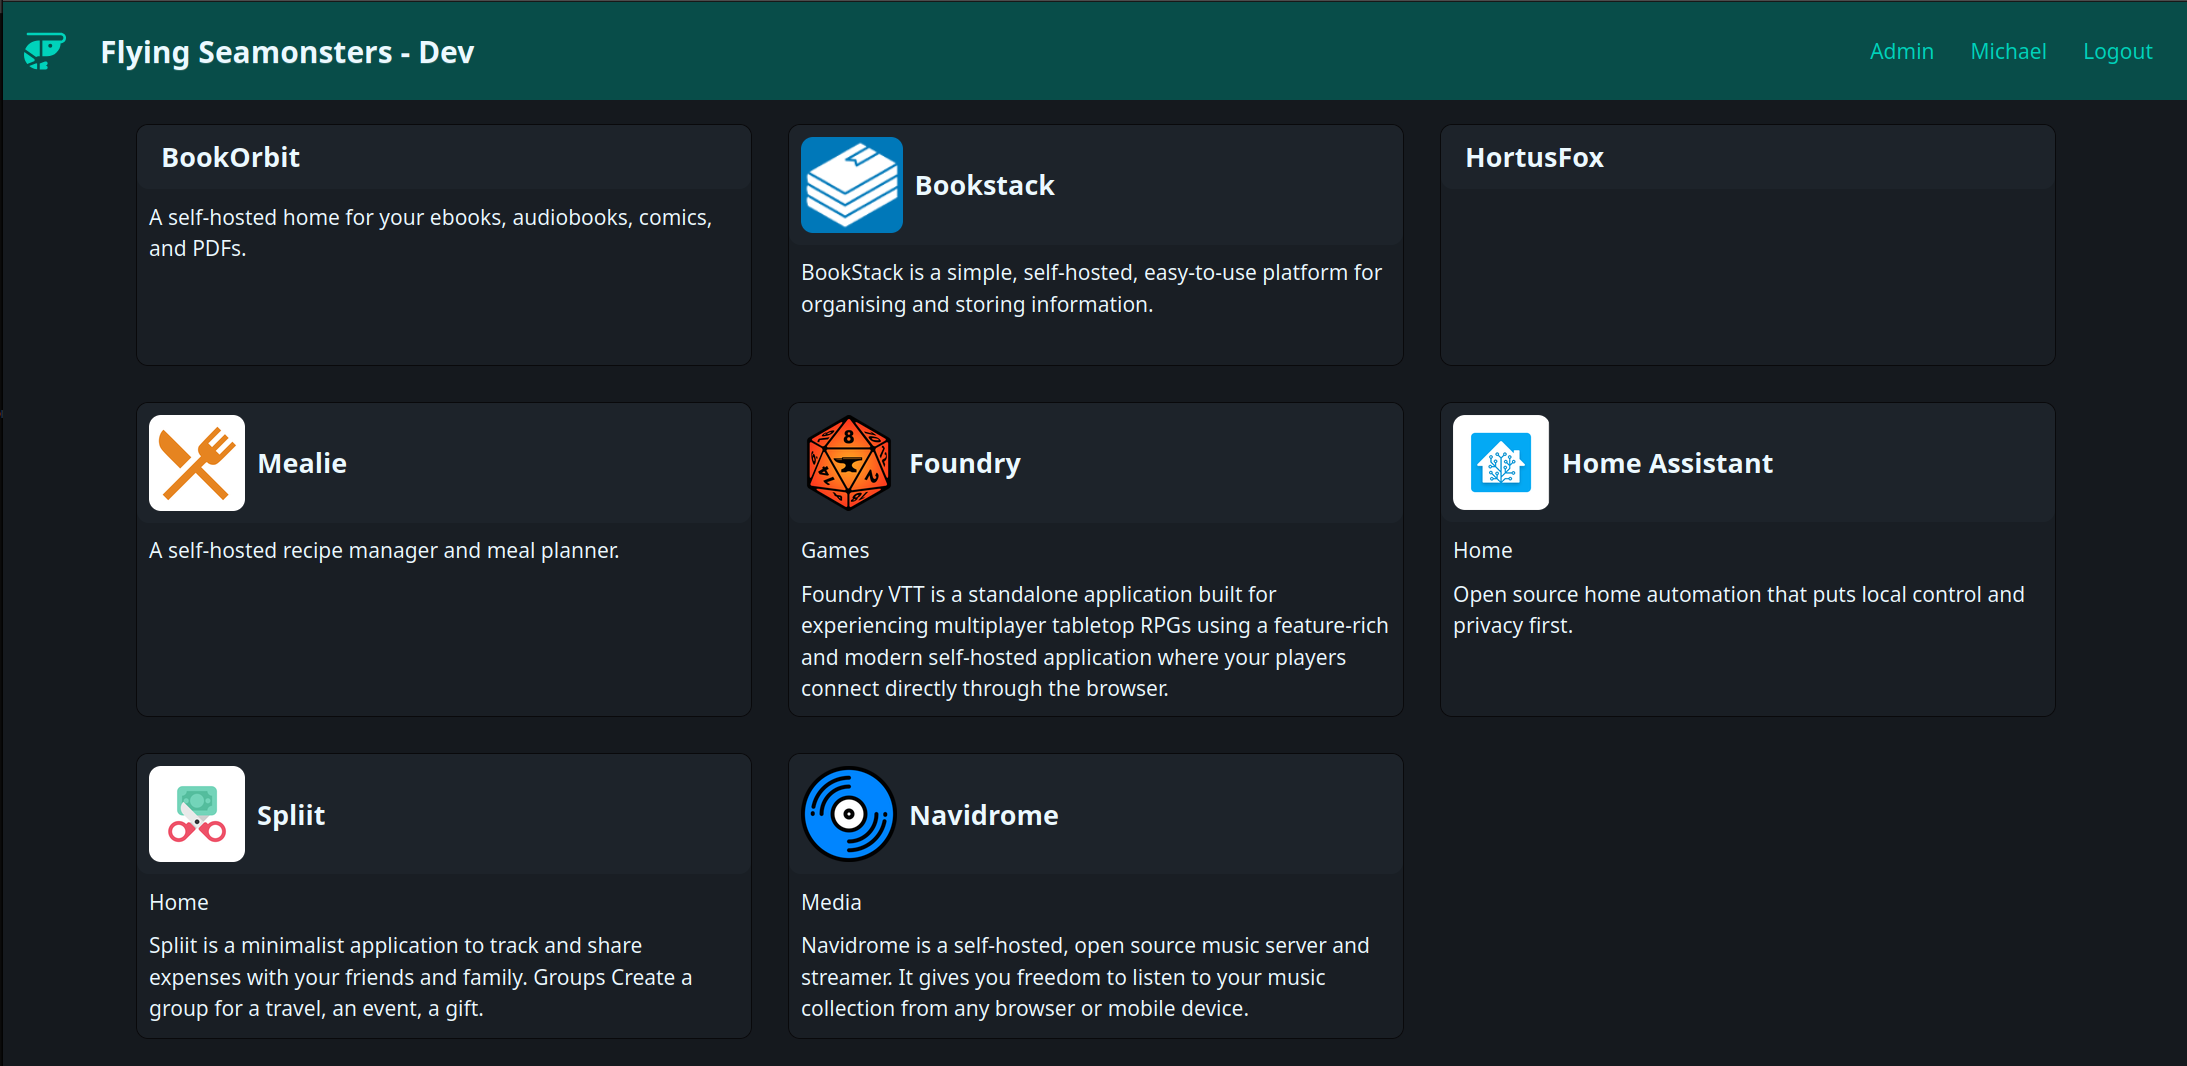
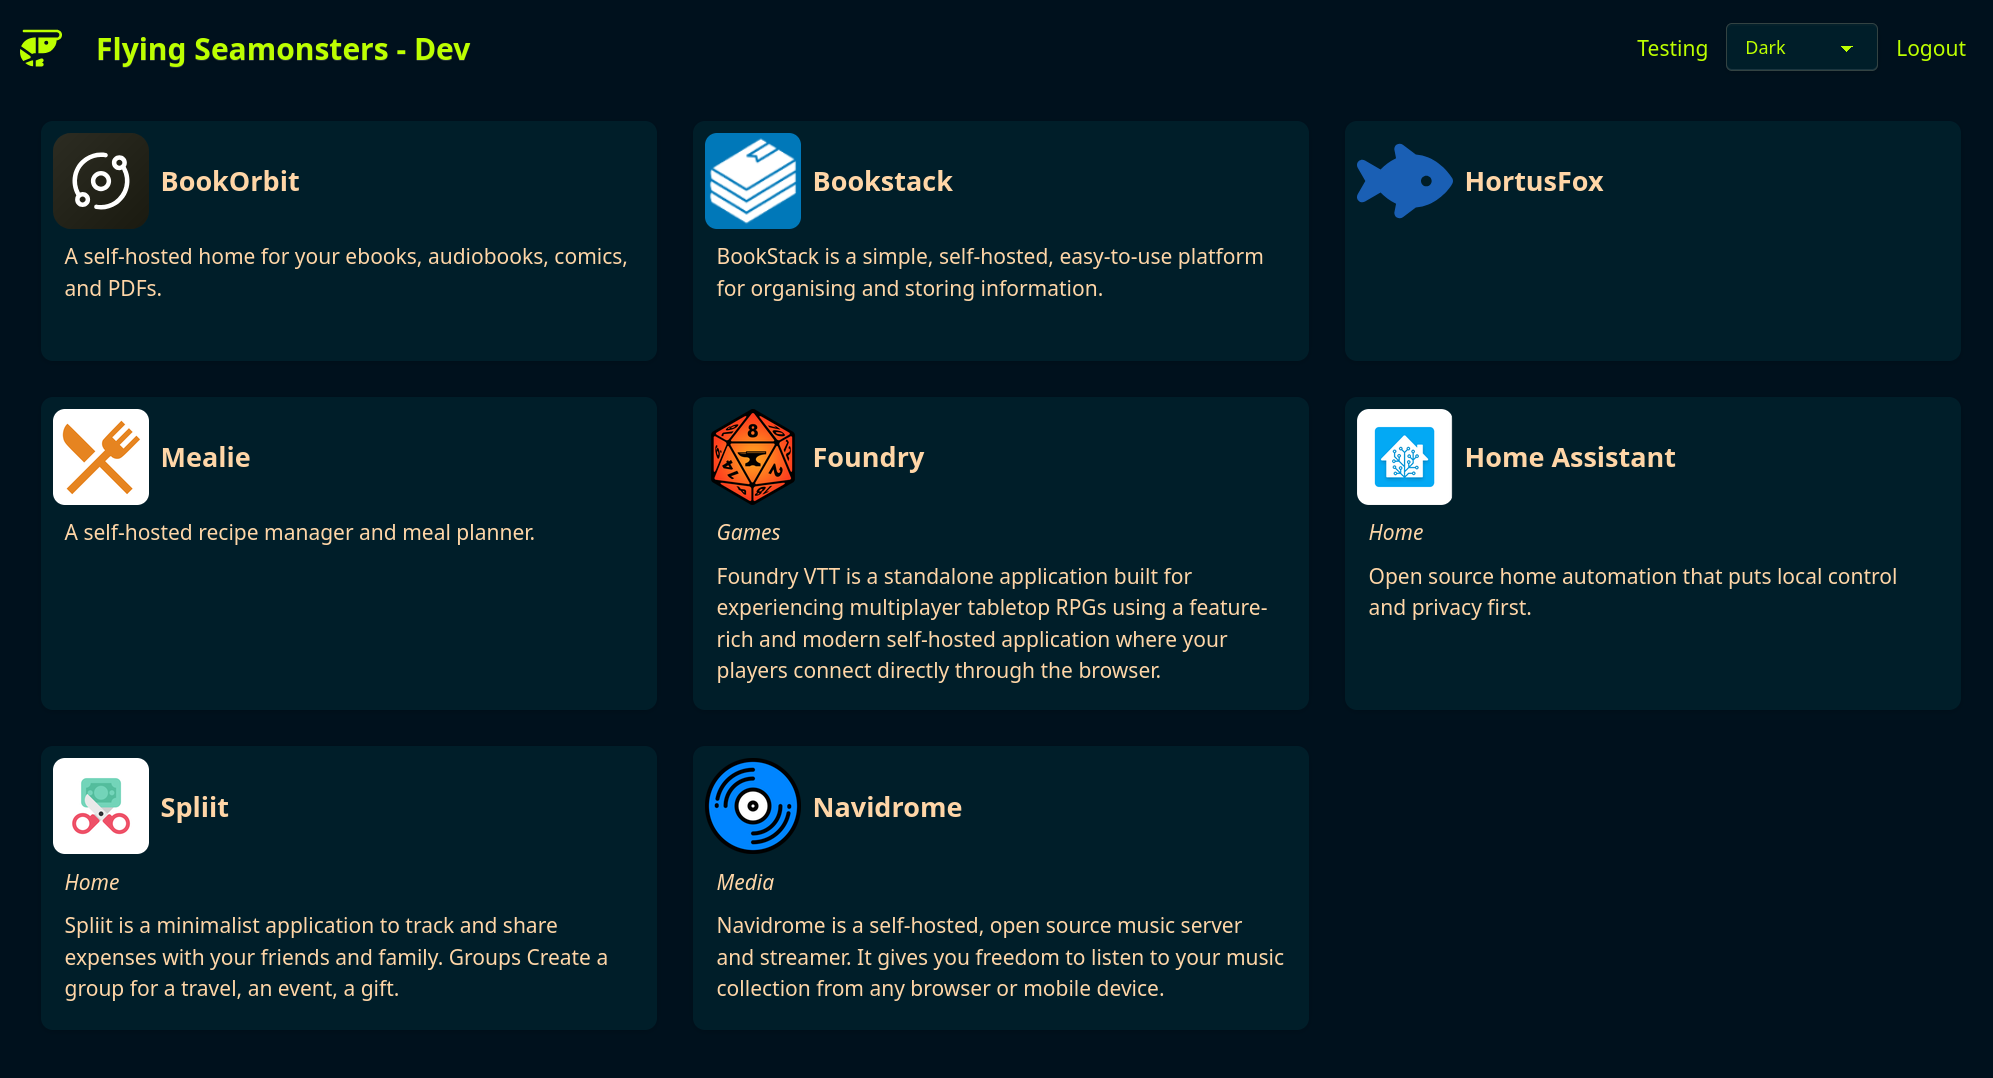
Prep for v0.10

diff --git a/CHANGELOG.md b/CHANGELOG.md
@@ -5,15 +5,19 @@ What's new in Synalpheus?
 The format is based on [Keep a Changelog](https://keepachangelog.com/en/1.0.0/),
 and this project adheres to [Semantic Versioning](https://semver.org/spec/v2.0.0.html). (Or tries to anyway.)
 
-## [0.9.0] - 2026-9-01
+## [0.10.0] - 2026-09-03
+- New theming, including a theme selector
+- Better responsive design
+
+## [0.9.0] - 2026-09-01
 - Changed CSS framework from Bulma to daisyUI/Tailwind
 
-## [0.8.0] - 2026-8-30
+## [0.8.0] - 2026-08-30
 - *Important!* Synalpheus now uses a _config.toml_ file instead of _.env_. Please see the new sample file.
 - Authentik's "Hide from Application Dashboard" setting is now observed  
 - Lots of refactoring and code cleanup
 
-## [0.7.0] - 2026-8-23
+## [0.7.0] - 2026-08-23
 - Removed Redis as the session storage, since Authentik no longer uses it
 - Updated Tera and SeaORM to their v2 releases
 - Other smaller version bumps
